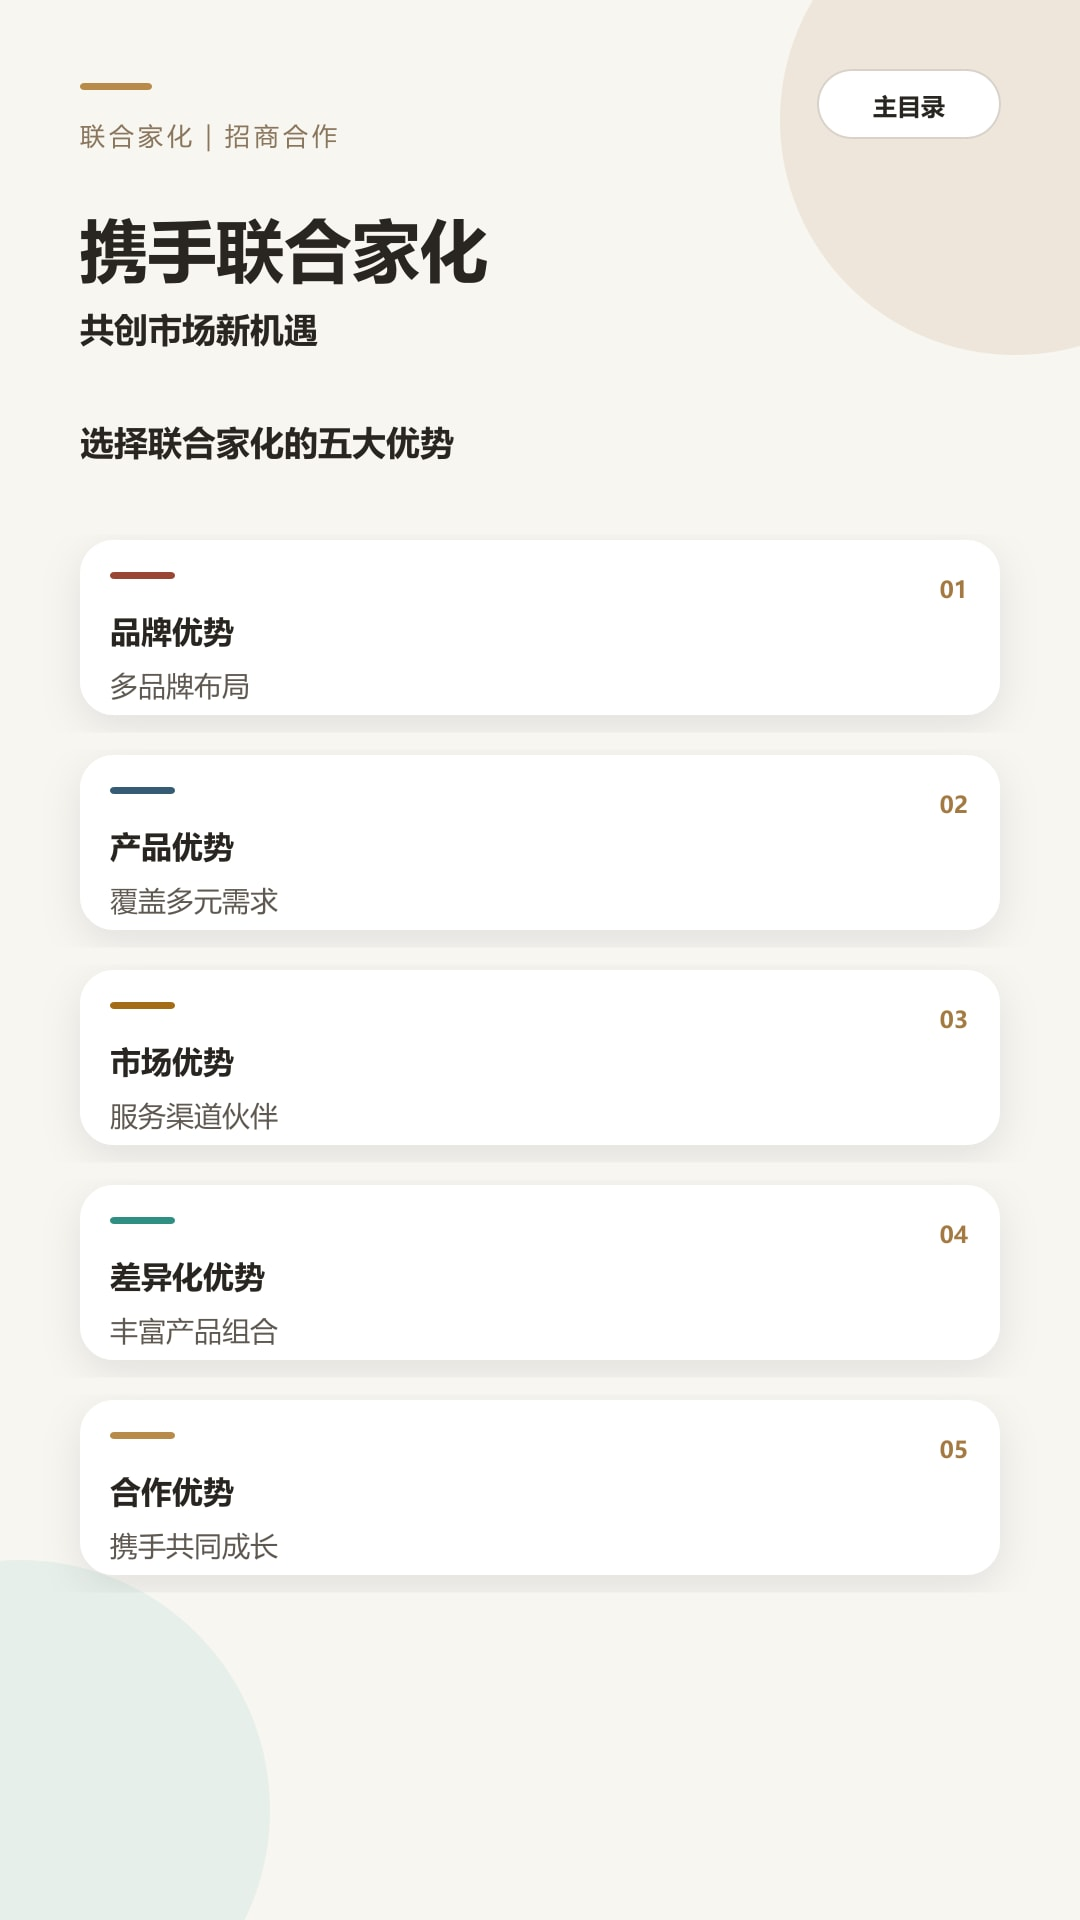
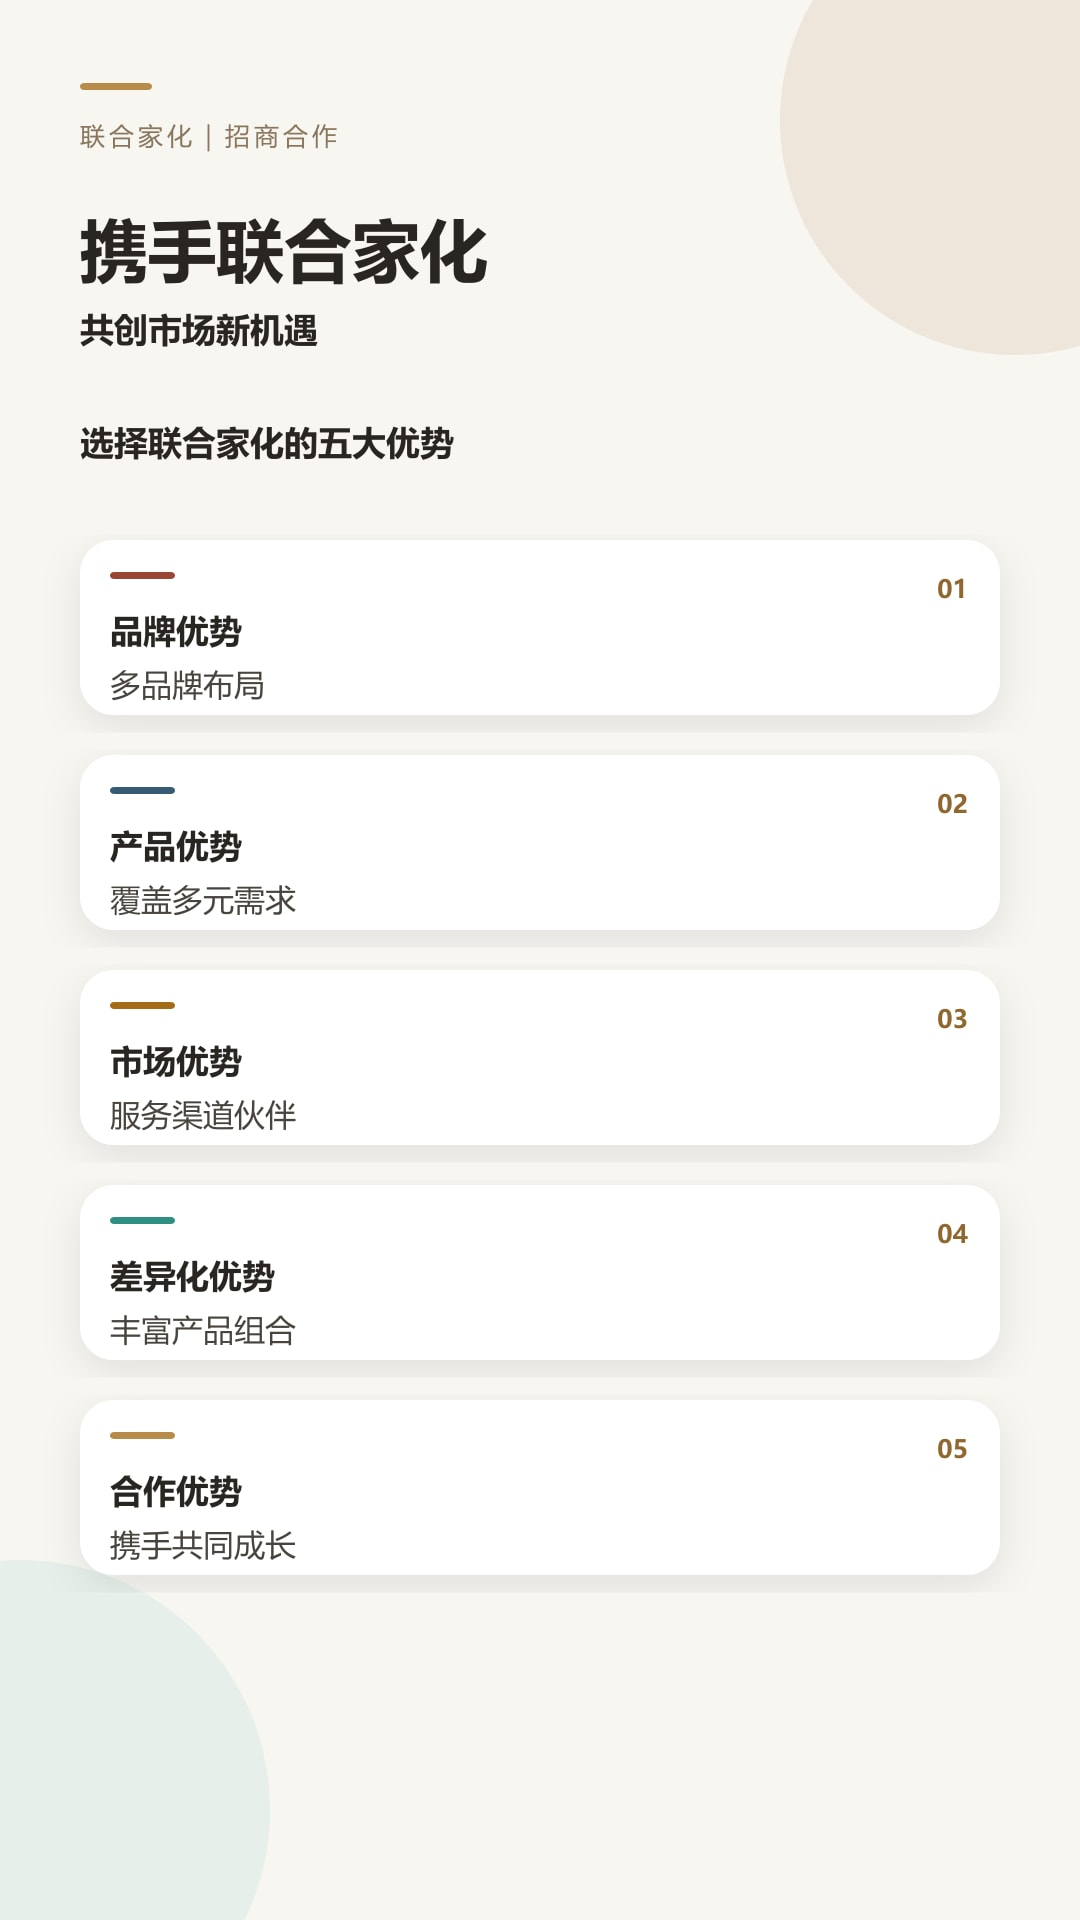
Improve mobile readability and remove duplicate visual controls

diff --git a/index.html b/index.html
@@ -77,16 +77,17 @@ const links = {
     [7.4,22.4,85.2,12.3,'ENT-INTRO','进入企业篇'],[7.4,37.2,85.2,12.3,'SEC-JZ','进入品牌与产品'],
     [7.4,52.1,85.2,12.3,'COOP-001','进入招商合作'],[7.4,66.9,85.2,12.3,'CONTACT','进入联系方式']],
   'ENT-MARKET': [[7.4,77.0,85.2,8.5,'SEC-JZ','查看品牌与产品']],
+  'ENT-STRENGTH': [[10.5,56.5,79,25,'@cert','点击查看资质证书大图']],
   'SEC-JZ': ['JZ-P001','JZ-P002','JZ-P003','JZ-P004','JZ-P005','JZ-P006','JZ-P007'],
   'SEC-YJ': ['YJ-P001','YJ-P002','YJ-P003','YJ-P004'],
   'SEC-JGB': ['JGB-P001','JGB-P002'],
   'SEC-HC': ['HC-P001','HC-P002','HC-P003'],
-  'CONTACT': [[7.4,87.5,85.2,6.5,'DIR-001','返回全书主目录']]
+  'CONTACT': [[7.4,43.5,85.2,12,'@tel','拨打0312-2161615'],[7.4,87.5,85.2,6.5,'DIR-001','返回全书主目录']]
 };
 function sectionLinks(ids) { return ids.map((id,n)=>[7.4+(n%2)*44.3,21.1+Math.floor(n/2)*14.3,40.9,12.2,id,'进入'+pages[byId[id]].title]); }
 function renderHotspots(p) {
   hotspots.innerHTML=''; let items=links[p.id]||[]; if(items.length && typeof items[0]==='string') items=sectionLinks(items);
-  items.forEach(([x,y,w,h,target,label])=>{const b=document.createElement('button');b.className='hotspot';b.style.cssText=`left:${x}%;top:${y}%;width:${w}%;height:${h}%`;b.setAttribute('aria-label',label);b.onclick=()=>show(byId[target]);hotspots.append(b);});
+  items.forEach(([x,y,w,h,target,label])=>{const b=document.createElement('button');b.className='hotspot';b.style.cssText=`left:${x}%;top:${y}%;width:${w}%;height:${h}%`;b.setAttribute('aria-label',label);b.onclick=()=>{if(target==='@tel'){location.href='tel:03122161615';return}if(target==='@cert'){window.open('assets/河北省科技型中小企业_SKX202508E0630030.jpg','_blank');return}show(byId[target])};hotspots.append(b);});
 }
 function show(i, push=true) {
   current=Math.max(0,Math.min(pages.length-1,i)); const p=pages[current]; loading.hidden=false; image.classList.remove('ready');

diff --git a/sw.js b/sw.js
@@ -1,1 +1,1 @@
-const C='topic6-v1-complete';const CORE=['./','./index.html','./style.css','./manifest.webmanifest','./icon-192.png'];self.addEventListener('install',e=>e.waitUntil(caches.open(C).then(c=>c.addAll(CORE)).then(()=>self.skipWaiting())));self.addEventListener('activate',e=>e.waitUntil(caches.keys().then(keys=>Promise.all(keys.filter(k=>k!==C).map(k=>caches.delete(k)))).then(()=>self.clients.claim())));self.addEventListener('fetch',e=>e.respondWith(caches.match(e.request).then(r=>r||fetch(e.request).then(x=>{const y=x.clone();caches.open(C).then(c=>c.put(e.request,y));return x;}))));
+const C='topic6-v1-release-fix1';const CORE=['./','./index.html','./style.css','./manifest.webmanifest','./icon-192.png'];self.addEventListener('install',e=>e.waitUntil(caches.open(C).then(c=>c.addAll(CORE)).then(()=>self.skipWaiting())));self.addEventListener('activate',e=>e.waitUntil(caches.keys().then(keys=>Promise.all(keys.filter(k=>k!==C).map(k=>caches.delete(k)))).then(()=>self.clients.claim())));self.addEventListener('fetch',e=>e.respondWith(caches.match(e.request).then(r=>r||fetch(e.request).then(x=>{const y=x.clone();caches.open(C).then(c=>c.put(e.request,y));return x;}))));
